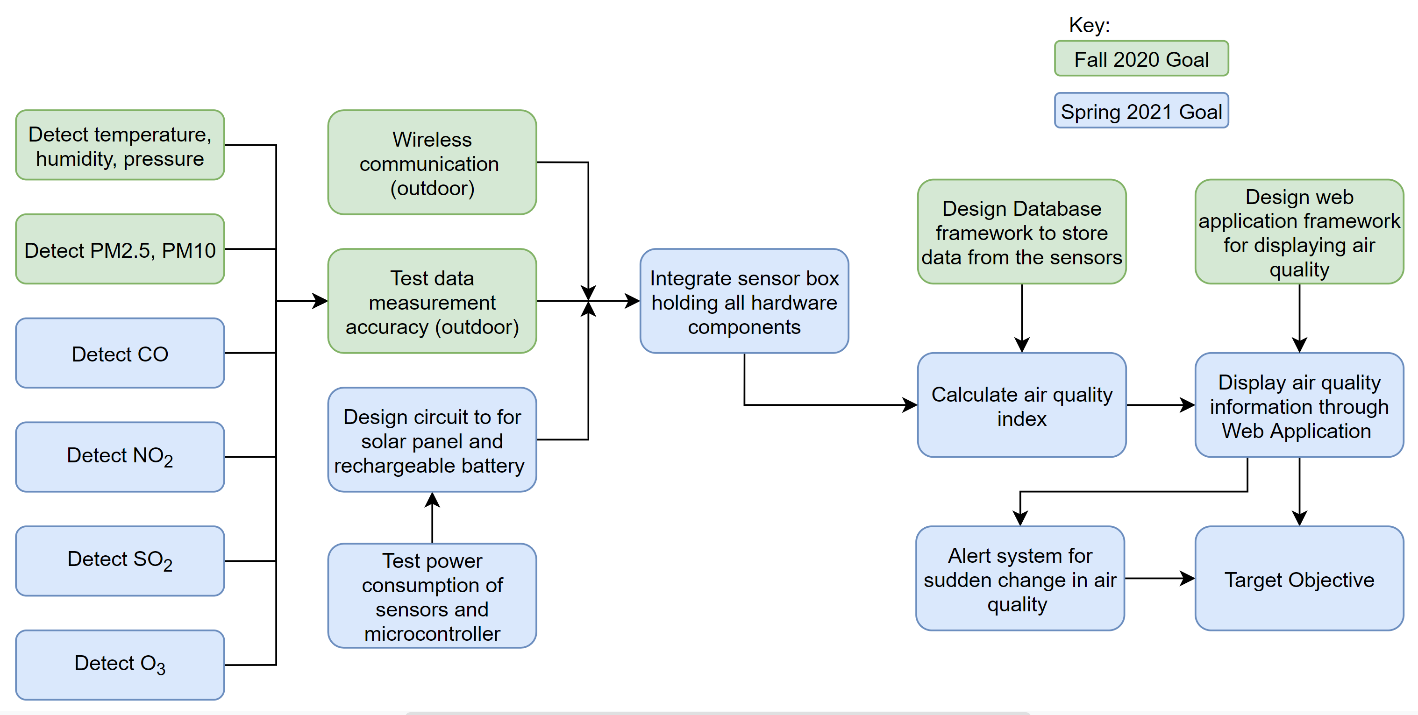
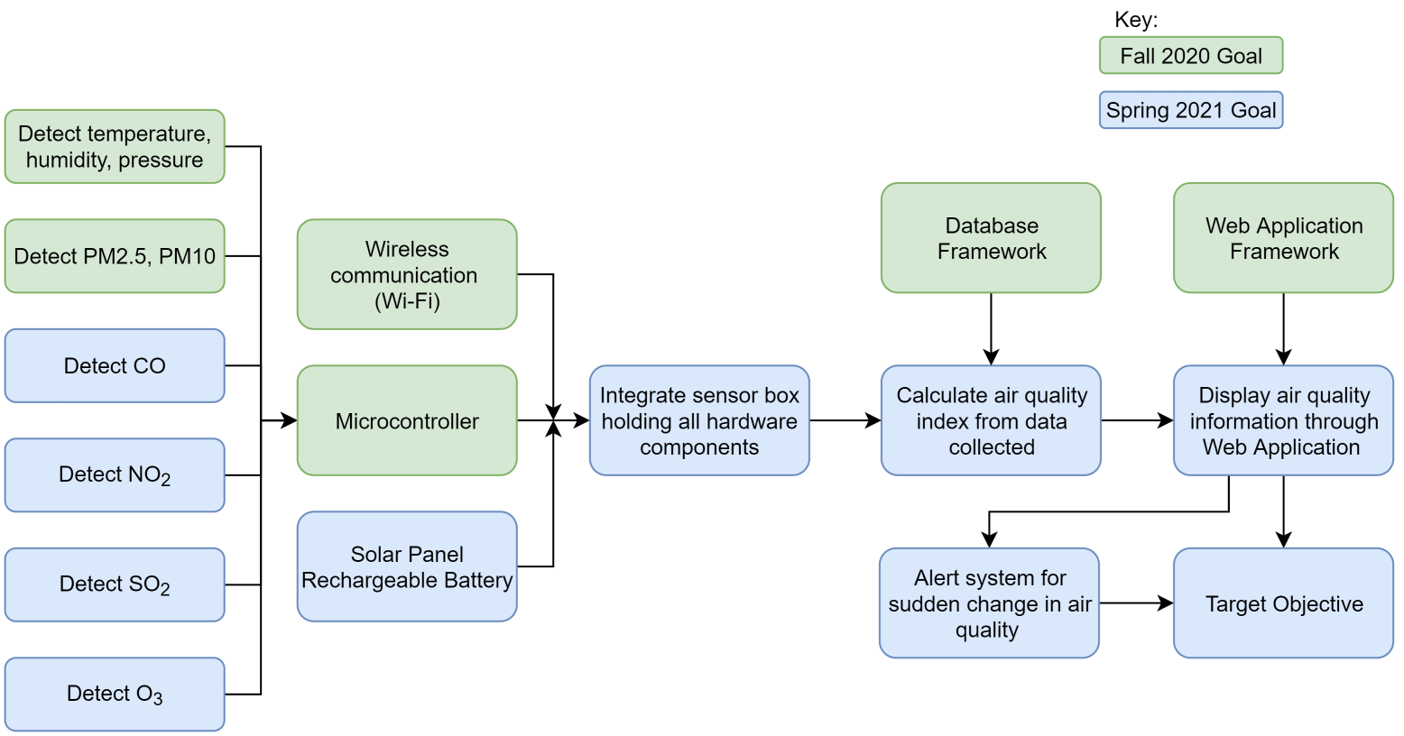
Add files via upload

Changed region(s): [[0.0, 0.1231, 1.0, 1.0], [0.735, 0.0, 0.9188, 0.1846], [0.2756, 0.9846, 0.735, 1.0]]

diff --git a/signup.html b/signup.html
@@ -1,0 +1,145 @@
+<!DOCTYPE html>
+<html lang="en">
+<head><title>Sign Up</title></head>
+<style>
+body {font-family: Arial, Helvetica, sans-serif;}
+* {box-sizing: border-box;}
+
+/* Full-width input fields */
+input[type=text], input[type=password] {
+  width: 100%;
+  padding: 15px;
+  margin: 5px 0 22px 0;
+  display: inline-block;
+  border: none;
+  background: #f1f1f1;
+}
+
+/* Add a background color when the inputs get focus */
+input[type=text]:focus, input[type=password]:focus {
+  background-color: #ddd;
+  outline: none;
+}
+
+/* Set a style for all buttons */
+button {
+  background-color: #4CAF50;
+  color: white;
+  padding: 14px 20px;
+  margin: 8px 0;
+  border: none;
+  cursor: pointer;
+  width: 100%;
+  opacity: 0.9;
+}
+
+button:hover {
+  opacity:1;
+}
+
+/* Extra styles for the cancel button */
+.cancelbtn {
+  padding: 14px 20px;
+  background-color: #f44336;
+}
+
+/* Float cancel and signup buttons and add an equal width */
+.cancelbtn, .signupbtn {
+  float: left;
+  width: 50%;
+}
+
+/* Add padding to container elements */
+.container {
+  padding: 16px;
+}
+
+/* The Modal (background) */
+.modal {
+  display: none; /* Hidden by default */
+  position: fixed; /* Stay in place */
+  z-index: 1; /* Sit on top */
+  left: 0;
+  top: 0;
+  width: 100%; /* Full width */
+  height: 100%; /* Full height */
+  overflow: auto; /* Enable scroll if needed */
+  background-color: #474e5d;
+  padding-top: 50px;
+}
+
+/* Modal Content/Box */
+.modal-content {
+  background-color: #fefefe;
+  margin: 5% auto 15% auto; /* 5% from the top, 15% from the bottom and centered */
+  border: 1px solid #888;
+  width: 80%; /* Could be more or less, depending on screen size */
+}
+
+/* Style the horizontal ruler */
+hr {
+  border: 1px solid #f1f1f1;
+  margin-bottom: 25px;
+}
+ 
+/* The Close Button (x) */
+.close {
+  position: absolute;
+  right: 35px;
+  top: 15px;
+  font-size: 40px;
+  font-weight: bold;
+  color: #f1f1f1;
+}
+
+.close:hover,
+.close:focus {
+  color: #f44336;
+  cursor: pointer;
+}
+
+/* Clear floats */
+.clearfix::after {
+  content: "";
+  clear: both;
+  display: table;
+}
+
+/* Change styles for cancel button and signup button on extra small screens */
+@media screen and (max-width: 300px) {
+  .cancelbtn, .signupbtn {
+     width: 100%;
+  }
+}
+</style>
+<body>
+
+  <form class="modal-content" action="/action_page.php">
+    <div class="container">
+      <h1>Sign Up</h1>
+      <p>Please fill out this form to get alerts.</p>
+      <hr>
+      <label for="email"><b>Email</b></label>
+      <input type="text" placeholder="Enter Email" name="email" required>
+
+      <!-- <label for="psw"><b>Password</b></label>
+      <input type="password" placeholder="Enter Password" name="psw" required> -->
+
+      <!-- <label for="psw-repeat"><b>Repeat Password</b></label>
+      <input type="password" placeholder="Repeat Password" name="psw-repeat" required> -->
+      
+      <!-- <label>
+        <input type="checkbox" checked="checked" name="remember" style="margin-bottom:15px"> Remember me
+      </label> -->
+
+      <!-- <p>By creating an account you agree to our <a href="#" style="color:dodgerblue">Terms & Privacy</a>.</p> -->
+
+      <div class="clearfix">
+        <button type="button" onclick="history.go(-1)" class="cancelbtn">Cancel</button>
+        <button type="submit" class="signupbtn">Sign Up</button>
+      </div>
+    </div>
+  </form>
+
+</body>
+</html>

diff --git a/index.html b/index.html
@@ -25,6 +25,8 @@
                     <li><a class="active" href="index.html">Home</a></li>
                     <li><a href="product.html">Product</a></li>
                     <li><a href="about.html">About</a></li>
+                    <li><a href="signup.html">Sign Up</a></li>
+                    <!-- <li><a href="login.html">Log In</a></li> -->
                 </ul>
             </nav> <!--Navigation-->
         </header> <!--Header-->
@@ -62,5 +64,6 @@
     <div class="copyright">
         <p><small>Copyright &copy; 2020. All Rights Reserved</small></p>
     </div>
+
 </body>
 </html>

diff --git a/product.html b/product.html
@@ -27,7 +27,7 @@
 
     <div class="sensor_diagram"> 
         <h3>Sensor Box Diagram</h3>
-        <img src="images/sensorbox.png" alt="sensor box diagram">
+        <img src="images/sensorbox2.png" alt="sensor box diagram">
     </div>
     
     <div class="spec_diagram"> 

diff --git a/javascript/index.js b/javascript/index.js
@@ -31,4 +31,4 @@ function initMap() {
     marker.addListener("click", () => {
       infowindow.open(map, marker);
     });
-  }
+}

diff --git a/css/style.css b/css/style.css
@@ -136,3 +136,6 @@ footer{
 .goal_diagram > img{
   height: 625px;
 }
+
+
+/* Sign Up Stylesheet */
